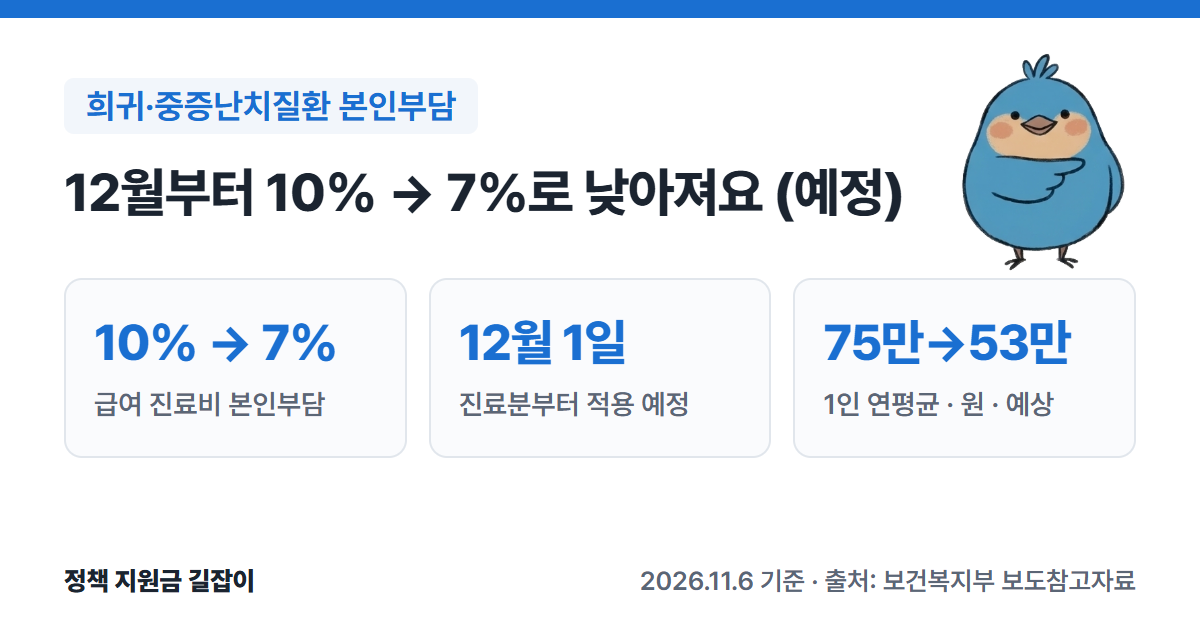
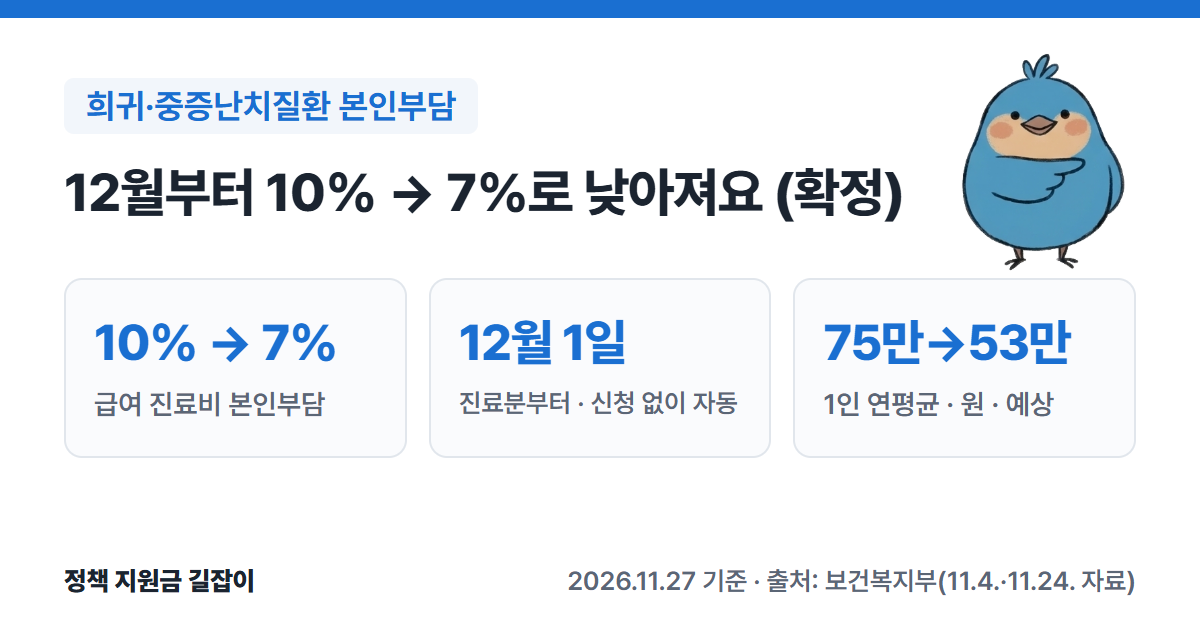
희귀·중증난치 본인부담 7%: 11/24 국무회의 의결로 확정 반영(자동 적용, 허브·긴급복지 링크 설명, 네이버 원고)

Changed region(s): [[0.4625, 0.9048, 0.9558, 0.9651], [0.37, 0.6032, 0.6167, 0.6635], [0.6475, 0.2714, 0.7092, 0.3619]]

diff --git a/_tools/card.html b/_tools/card.html
@@ -81,9 +81,9 @@ const cards = {
   },
   "rare-disease-copay-cut-2026": {
     label: "희귀·중증난치질환 본인부담",
-    title: "12월부터 10% → 7%로 낮아져요 (예정)",
-    stats: [["10% → 7%", "급여 진료비 본인부담"], ["12월 1일", "진료분부터 적용 예정"], ["75만→53만", "1인 연평균 · 원 · 예상"]],
-    foot: "2026.11.6 기준 · 출처: 보건복지부 보도참고자료"
+    title: "12월부터 10% → 7%로 낮아져요 (확정)",
+    stats: [["10% → 7%", "급여 진료비 본인부담"], ["12월 1일", "진료분부터 · 신청 없이 자동"], ["75만→53만", "1인 연평균 · 원 · 예상"]],
+    foot: "2026.11.27 기준 · 출처: 보건복지부(11.4.·11.24. 자료)"
   },
   "median-income-2027": {
     label: "2027 기준 중위소득",

diff --git a/_posts/2026-10-22-emergency-welfare-support-2026.md b/_posts/2026-10-22-emergency-welfare-support-2026.md
@@ -224,7 +224,7 @@ image: /assets/images/cards/emergency-welfare-support-2026.png
 - [2026 국민취업지원제도 총정리]({% post_url 2026-10-18-national-employment-support-2026 %}): 실직 뒤 구직 활동 중에 받는 구직촉진수당과 취업 지원
 - [2026 생계급여 총정리]({% post_url 2026-10-24-livelihood-benefit-2026 %}): 위기가 길어질 때 살펴볼 기초생활보장 생활비 지원(기준 중위소득 32% 이하)
 - [2027 주거급여 총정리]({% post_url 2026-10-23-housing-benefit-2026 %}): 소득이 낮은 가구의 월세·전세 비용과 집수리를 지원하는 제도
-- [희귀·중증난치질환 본인부담률 인하]({% post_url 2026-11-06-rare-disease-copay-cut-2026 %}): 산정특례 등록 환자의 건강보험 본인부담이 12월부터 10%→7%로 낮아질 예정
+- [희귀·중증난치질환 본인부담률 인하]({% post_url 2026-11-06-rare-disease-copay-cut-2026 %}): 산정특례에 등록된 희귀·중증난치질환자의 건강보험 본인부담이 12월 1일 진료분부터 10%→7%로 낮아짐(11월 24일 확정)
 
 ---
 

diff --git a/_posts/2026-10-29-living-cost-support-2026.md b/_posts/2026-10-29-living-cost-support-2026.md
@@ -51,7 +51,7 @@ image: /assets/images/cards/living-cost-support-2026.png
 | 생리대 등 생리용품 비용이 부담된다 (2001~2017년생 여성청소년) | [여성청소년 생리용품 바우처]({% post_url 2026-11-21-menstrual-product-voucher-2026 %}) |
 | 우울·불안으로 심리상담이 필요하다 (나이·소득 무관, 8회) | [정신건강 심리상담 바우처]({% post_url 2026-11-25-mental-health-counseling-voucher-2026 %}) |
 | 2027년에 소득 기준 금액이 어떻게 바뀌는지 궁금하다 | [2027 기준 중위소득 정리]({% post_url 2026-11-04-median-income-2027 %}) |
-| 희귀·중증난치질환으로 오래 치료받고 있다 (12월부터 본인부담 10%→7% 예정) | [희귀·중증난치질환 본인부담률 인하]({% post_url 2026-11-06-rare-disease-copay-cut-2026 %}) |
+| 희귀·중증난치질환으로 오래 치료받고 있다 (12월 1일 진료분부터 본인부담 10%→7%) | [희귀·중증난치질환 본인부담률 인하]({% post_url 2026-11-06-rare-disease-copay-cut-2026 %}) |
 
 ---
 
